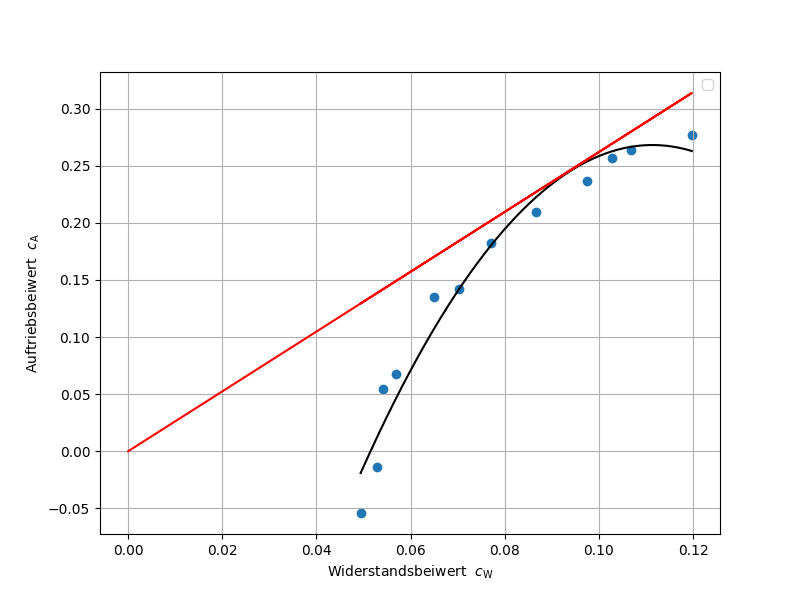
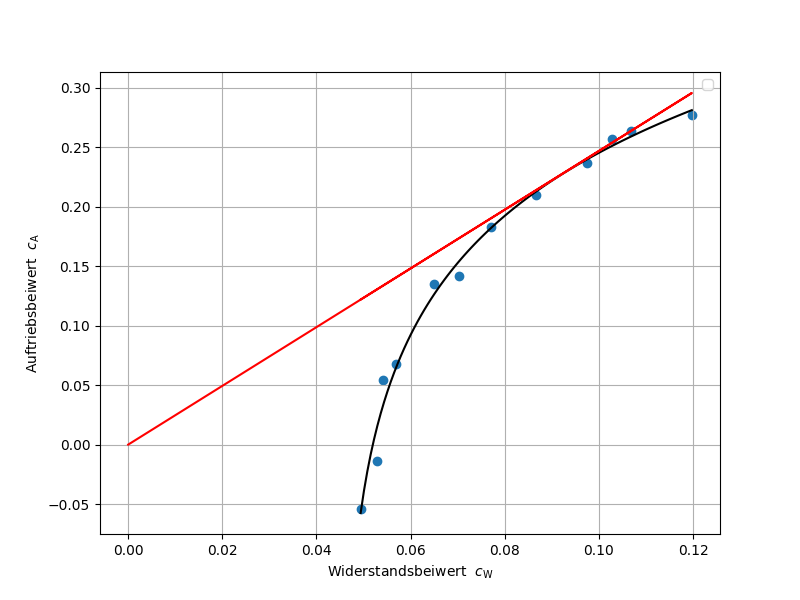
se

diff --git a/AuswertungundDiskussion.tex b/AuswertungundDiskussion.tex
@@ -99,7 +99,13 @@ gegeben, nach dem Ausdifferenzieren gibt dies,
 \end{equation}
 
 Werden nun die Auftriebs- und Widerstandskräfte in einem Polardiagramm aufgetragen kann der ideale Anstellwinkel ermittelt werden. Dazu wird eine Ursprungsgerade so von Hand in das Diagramm hineingelegt, dass diese den Graphen der Messpunkte berührt, dies ist in der nächsten Abbildung zu erkennen.
-EINFÜGEN
+\begin{figure}[h]
+    \centering
+        \includegraphics[width=\linewidth]{Bilder/epsilon.png}
+
+    \caption{}
+    \label{optiwinkel}
+\end{figure}
 Anhand dieser Graphik kann nun der berührungspunkt abgelesen werden, dieser befindet sich bei (einfügen). Damit ergibt sich als Gleitzahl $\epsilon$ 
 \begin{equation}
     \centering
@@ -117,15 +123,15 @@ Mithilfe der Gleitzahl kann eine Aussage zum Verhältnis zwischen Auftriebskraft
 \begin{tabular}{c|c|c|c|c}
     Körper & Fläche A $\left[cm^2\right]$ & Kraft $F_\text{W}$ $\left[N\right]$ & $c_\text{W}$ & $c_\text{W, Literatur}$ \\
 \hline
-Zylinder  & 12,6 $\pm 1,2$\\
-Zylinder & 24,6 $\pm 1,2$\\
-Zylinder & 50,3 $\pm 1,2$\\
-Tropfen $\left(\text{Spitz}\right)$ & $24,6 \pm 3,7$ \\
-Tropfen $\left(\text{Rund}\right)$ & $24,6 \pm 3,7$ \\
-Ball & 24,6 $\pm 3,7$ \\
-Halbkugel & 24,6 $\pm 3,7$ \\
-Schale & 24,6 $\pm 3,7$ \\
-Auto & 9,8 $\pm 0,63$ \\
+Scheibe  & 12,6 $\pm 1,2$ & 0,07 & 0,40& 1,2\\ 
+Scheibe & 24,6 $\pm 1,2$ & 0,13 & 0,33 & 1,2\\
+Scheibe & 50,3 $\pm 1,2$ & 0,305 & 0,34 & 1,2\\ 
+Tropfen $\left(\text{Spitz}\right)$ & $24,6 \pm 3,7$ &  0,04 & 0,15\\
+Tropfen $\left(\text{Rund}\right)$ & $24,6 \pm 3,7$& 0,02 & 0,10 & 0,06\\ 
+Ball & 24,6 $\pm 3,7$ & 0,06 & 0,18 & 0,4\\ 
+Halbkugel & 24,6 $\pm 3,7$ & 0,18 & 0,12 & 0,8\\
+Schale & 24,6 $\pm 3,7$& & \\
+Auto & 9,8 $\pm 0,63$ & & \\
     
 \end{tabular}
     
